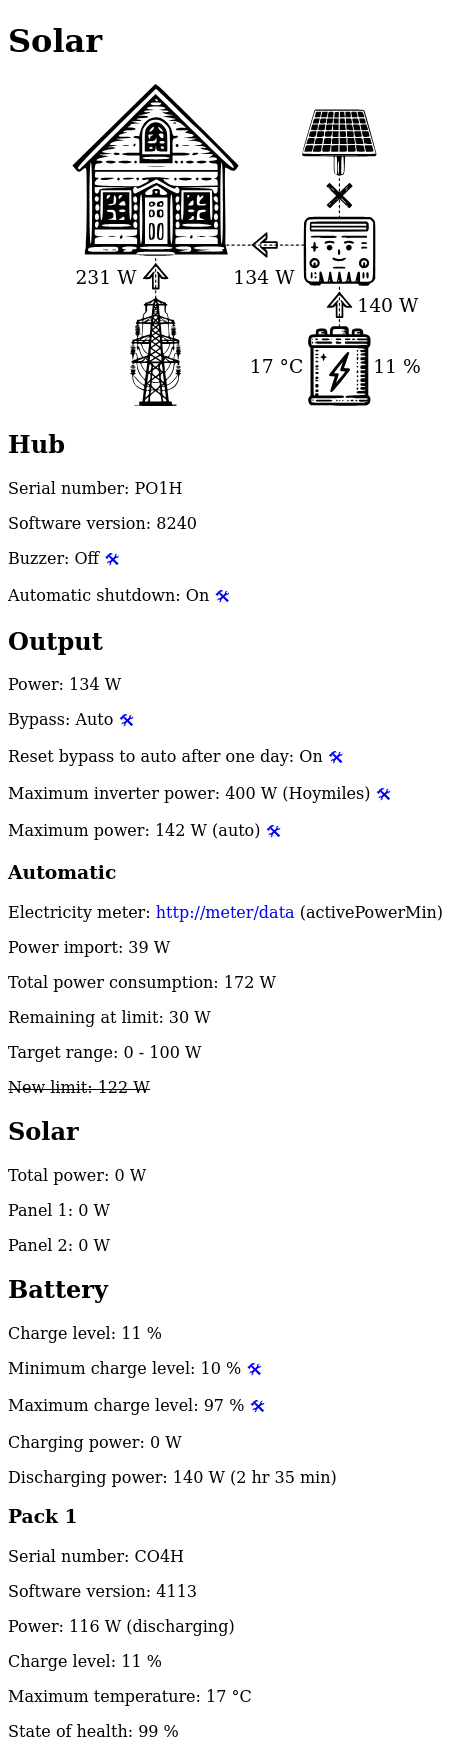
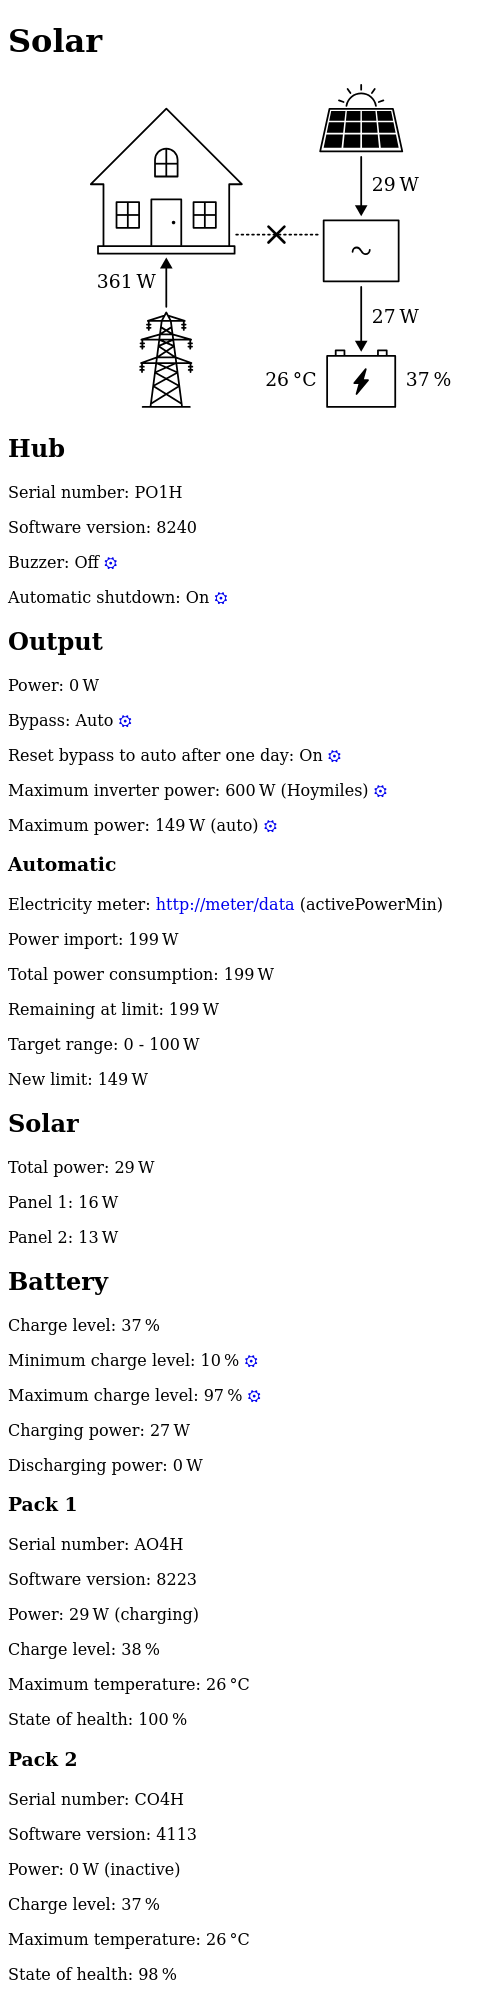
Simplify diagram

diff --git a/main.py b/main.py
@@ -479,58 +479,65 @@ def index(request):
             yield ' style="display:none"'
         yield f'>{q(t("No connection"))}</h2>'
         yield '<svg xmlns="http://www.w3.org/2000/svg"'
-        yield ' width="1024" height="691" viewBox="0 0 1024 691"'
+        yield ' width="1024" height="700" viewBox="0 0 1024 700"'
         yield ' style="'
         yield "max-width:calc(min(100%,30rem));"
         yield "height:auto;"
-        yield "fill:currentColor;"
         yield '">'
-        svg_text_attr = 'font-size="40px" dominant-baseline="middle"'
+        svg_text_attr = 'font-size="40px" fill="currentColor"'
         yield '<use href="diagram.svg#home"/>'
         yield '<use href="diagram.svg#inverter"/>'
-        yield '<use href="diagram.svg#home-inverter-conn"/>'
         yield '<use href="diagram.svg#solar"/>'
-        yield '<use href="diagram.svg#inverter-solar-conn"/>'
         value = props.get("solarInputPower")
         if value:
             yield '<use href="diagram.svg#solar-inverter"/>'
             yield '<use href="diagram.svg#solar-sun"/>'
-            yield f'<text x="745" y="251" {svg_text_attr}>'
+            yield f'<text x="776.106" y="221.521" {svg_text_attr}'
+            yield ' dominant-baseline="middle" text-anchor="start">'
             yield q(t.number(value, "W"))
             yield "</text>"
-        elif value == 0:
-            yield '<use href="diagram.svg#solar-inverter-x"/>'
+        else:
+            yield '<use href="diagram.svg#inverter-solar-conn"/>'
+            if value == 0:
+                yield '<use href="diagram.svg#inverter-solar-x"/>'
         value = props.get("outputHomePower")
         if value:
             yield '<use href="diagram.svg#inverter-home"/>'
-            yield f'<text x="611" y="421" {svg_text_attr} text-anchor="end">'
+            yield f'<text x="572.641" y="348.146" {svg_text_attr}'
+            yield ' dominant-baseline="hanging" text-anchor="middle">'
             yield q(t.number(value, "W"))
             yield "</text>"
-        elif value == 0:
-            yield '<use href="diagram.svg#inverter-home-x"/>'
+        else:
+            yield '<use href="diagram.svg#home-inverter-conn"/>'
+            if value == 0:
+                yield '<use href="diagram.svg#home-inverter-x"/>'
         if packs:
             yield '<use href="diagram.svg#battery"/>'
-            yield '<use href="diagram.svg#inverter-battery-conn"/>'
             value = props.get("packState")
-            if value == 0:
-                yield '<use href="diagram.svg#battery-inverter-x"/>'
-            elif value == 1:
+            if value == 1:
                 yield '<use href="diagram.svg#inverter-battery"/>'
                 value = props.get("outputPackPower")
                 if value:
-                    yield f'<text x="745" y="481" {svg_text_attr}>'
+                    yield f'<text x="776.107" y="504.743" {svg_text_attr}'
+                    yield ' dominant-baseline="middle" text-anchor="start">'
                     yield q(t.number(value, "W"))
                     yield "</text>"
             elif value == 2:
                 yield '<use href="diagram.svg#battery-inverter"/>'
                 value = props.get("packInputPower")
                 if value:
-                    yield f'<text x="745" y="481" {svg_text_attr}>'
+                    yield f'<text x="776.107" y="504.743" {svg_text_attr}'
+                    yield ' dominant-baseline="middle" text-anchor="start">'
                     yield q(t.number(value, "W"))
                     yield "</text>"
+            else:
+                yield '<use href="diagram.svg#battery-inverter-conn"/>'
+                if value == 0:
+                    yield '<use href="diagram.svg#battery-inverter-x"/>'
             value = props.get("electricLevel")
             if value is not None:
-                yield f'<text x="779" y="611" {svg_text_attr}>'
+                yield f'<text x="848.775" y="638.686" {svg_text_attr}'
+                yield ' dominant-baseline="middle" text-anchor="start">'
                 yield q(t.number(value, "%"))
                 yield "</text>"
             values = [
@@ -540,11 +547,11 @@ def index(request):
             ]
             value = max(values) if values else None
             if value:
-                yield f'<text x="630" y="611" {svg_text_attr} text-anchor="end">'
+                yield f'<text x="658.158" y="638.686" {svg_text_attr}'
+                yield ' dominant-baseline="middle" text-anchor="end">'
                 yield q(t.number(value, "°C"))
                 yield "</text>"
         if __meter_available:
-            yield '<use href="diagram.svg#home-grid-conn"/>'
             yield '<use href="diagram.svg#grid"/>'
             value = __auto_power_info_data.get(config.METER_POWER_DISPLAY_FIELD)
             if value:
@@ -552,11 +559,14 @@ def index(request):
                     yield '<use href="diagram.svg#home-grid"/>'
                 else:
                     yield '<use href="diagram.svg#grid-home"/>'
-                yield f'<text x="274" y="421" {svg_text_attr} text-anchor="end">'
+                yield f'<text x="315.023" y="428.873" {svg_text_attr}'
+                yield ' dominant-baseline="middle" text-anchor="end">'
                 yield q(t.number(abs(value), "W"))
                 yield "</text>"
-            elif value == 0:
-                yield '<use href="diagram.svg#grid-home-x"/>'
+            else:
+                yield '<use href="diagram.svg#grid-home-conn"/>'
+                if value == 0:
+                    yield '<use href="diagram.svg#grid-home-x"/>'
         if props.get("pass"):
             yield '<use href="diagram.svg#bypass"/>'
         yield "</svg>"